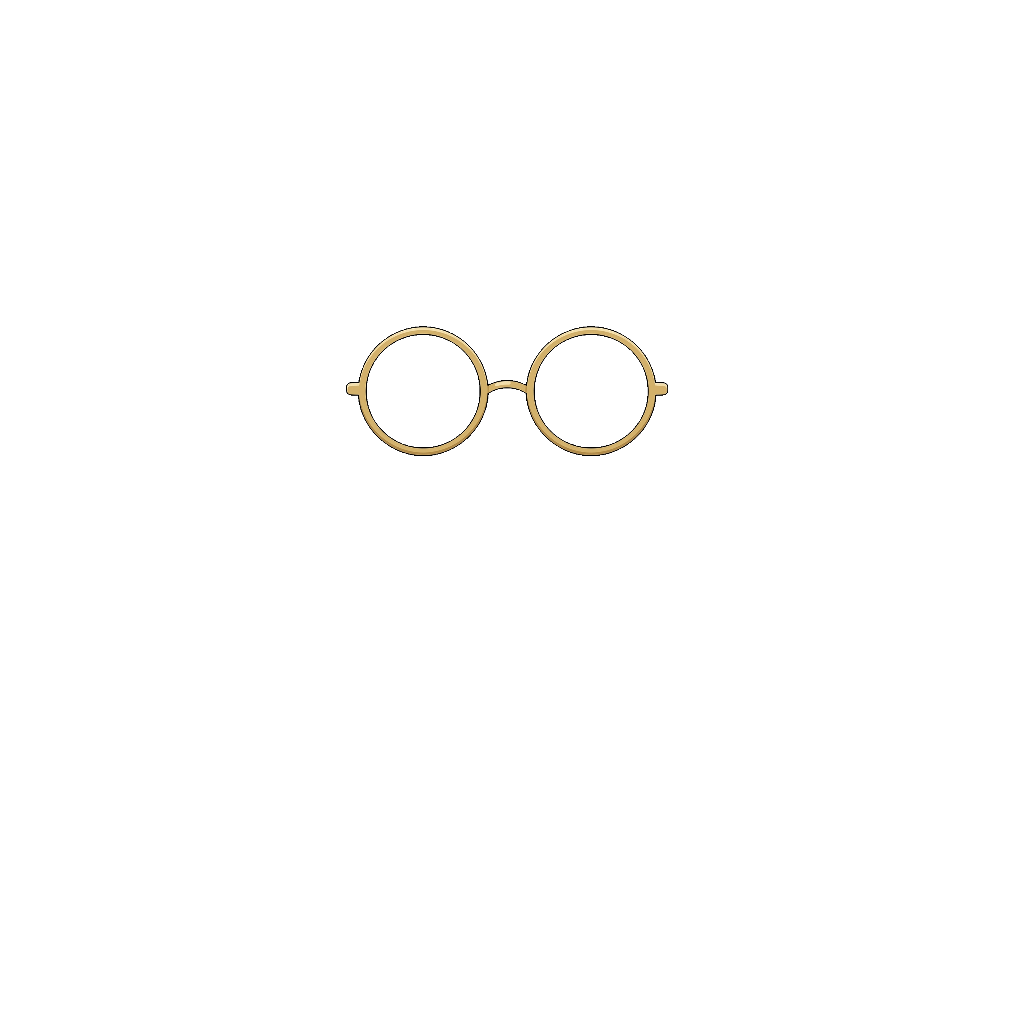
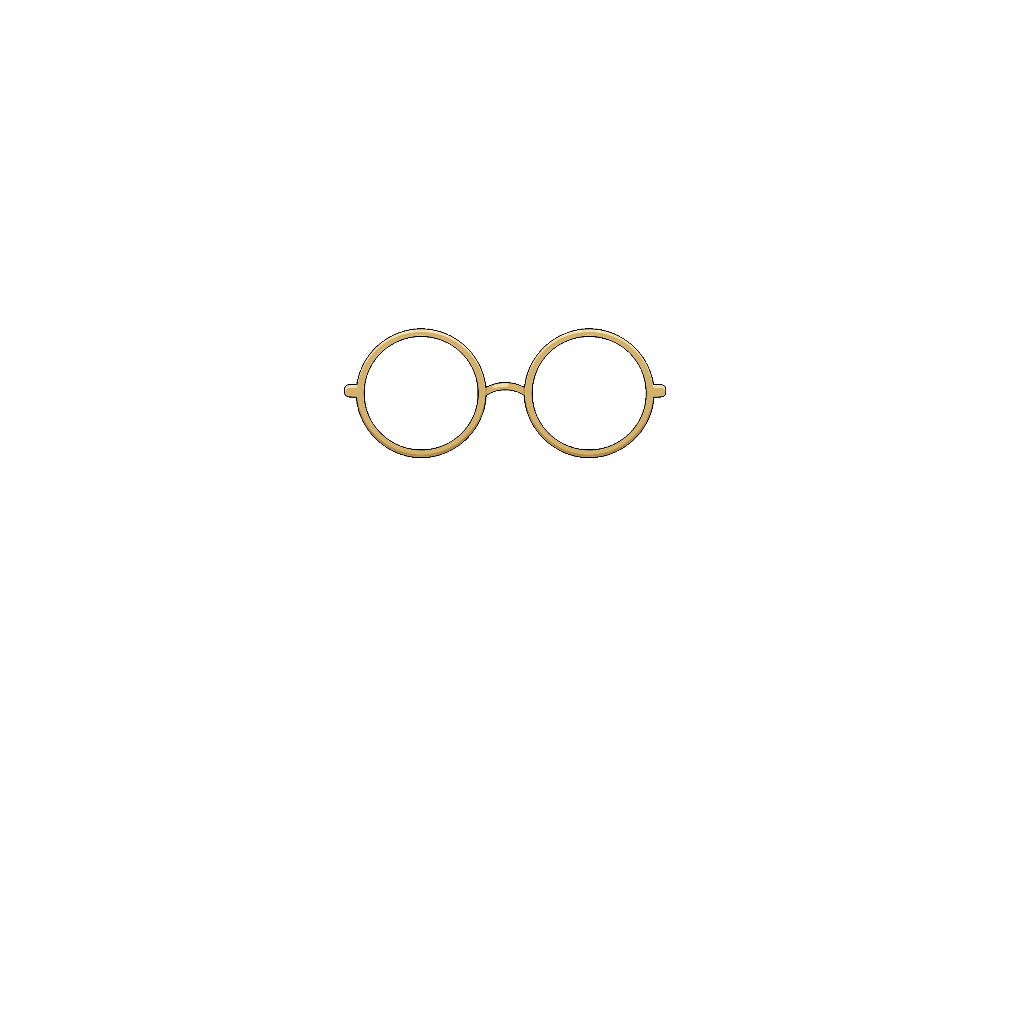
Add square and heart glasses; nudge all three left 7px and down 2px
Both new drawings registered at 0.0 degrees rotation with closed rims and
clean white lenses, so they needed no correction in the art.

NUDGE now (-7, +2), applied to every accessory at once — the point of
keeping it separate from the measured anchors is that a taste adjustment
like this is one constant and a re-run, not three edits.

Verified all three land on (421, 393) and (589, 393) to the pixel.

Round and square place within 1px of their lens bbox centres; the heart sits
6px above its bbox mid, because the point carries less area than the lobes
and the centroid rides high. About 1.5 screen pixels, and it reads correctly
on the face, so no per-item offset.

diff --git a/web/index.html b/web/index.html
@@ -16,7 +16,7 @@
 <meta name="apple-mobile-web-app-title" content="Moodmate">
 <link rel="manifest" href="manifest.webmanifest">
 <link rel="apple-touch-icon" href="assets/appicon-192.png">
-<link rel="stylesheet" href="styles.css?v=c25b2dc732">
+<link rel="stylesheet" href="styles.css?v=a3fec84e4b">
 <script>
   /* Runs before first paint, so a chosen theme doesn't arrive a frame late as
      a white flash. app.js reads the same key and owns it from there. */
@@ -159,7 +159,7 @@
 
 <div class="lightbox" id="lightbox" hidden></div>
 
-<script src="i18n.js?v=c25b2dc732"></script>
-<script src="app.js?v=c25b2dc732"></script>
+<script src="i18n.js?v=a3fec84e4b"></script>
+<script src="app.js?v=a3fec84e4b"></script>
 </body>
 </html>

diff --git a/web/sw.js b/web/sw.js
@@ -5,7 +5,7 @@
 // Stamped by export_web.py from a hash of the built assets. It must change
 // whenever any asset does, because the image rule below is cache-first and a
 // cache keyed by a constant name is never invalidated.
-const CACHE = "moodmate-c25b2dc732";
+const CACHE = "moodmate-a3fec84e4b";
 const SHELL = [
   ".", "index.html", "styles.css", "app.js",
   "manifest.webmanifest", "assets/items.json",

diff --git a/export_web.py b/export_web.py
@@ -75,6 +75,8 @@ ITEMS = [
     ("chino_shorts",    "bottom", "Chino Shorts",       "卡其短褲",       0),
     ("pyjama_pants",    "bottom", "Pyjama Pants",       "睡褲",           0),
     ("roundglasses",    "face_acc", "Round Glasses",    "圓框眼鏡",       0),
+    ("squareglasses",   "face_acc", "Square Glasses",   "方框眼鏡",       0),
+    ("heartglasses",    "face_acc", "Heart Glasses",    "心形眼鏡",       0),
     ("male_cap",        "hat",    "Baseball Cap",       "棒球帽", 0),
     ("male_gakuran",    "top",    "Gakuran Jacket",     "學生外套", 0),
     ("male_bomber",     "top",    "Bomber Jacket",      "飛行外套", 0),

diff --git a/place_accessory.py b/place_accessory.py
@@ -47,7 +47,7 @@ EYE_R = (596.0, 391.0)
 # slightly turned, so a frame centred on them looks a touch right of where it
 # belongs. Tuned by eye, kept separate from the measured anchors above so the
 # two never get confused.
-NUDGE = (-5.0, 0.0)
+NUDGE = (-7.0, 2.0)
 CANVAS = 1024
 PLATE_LEVEL, PLATE_CHROMA = 242, 12
 
